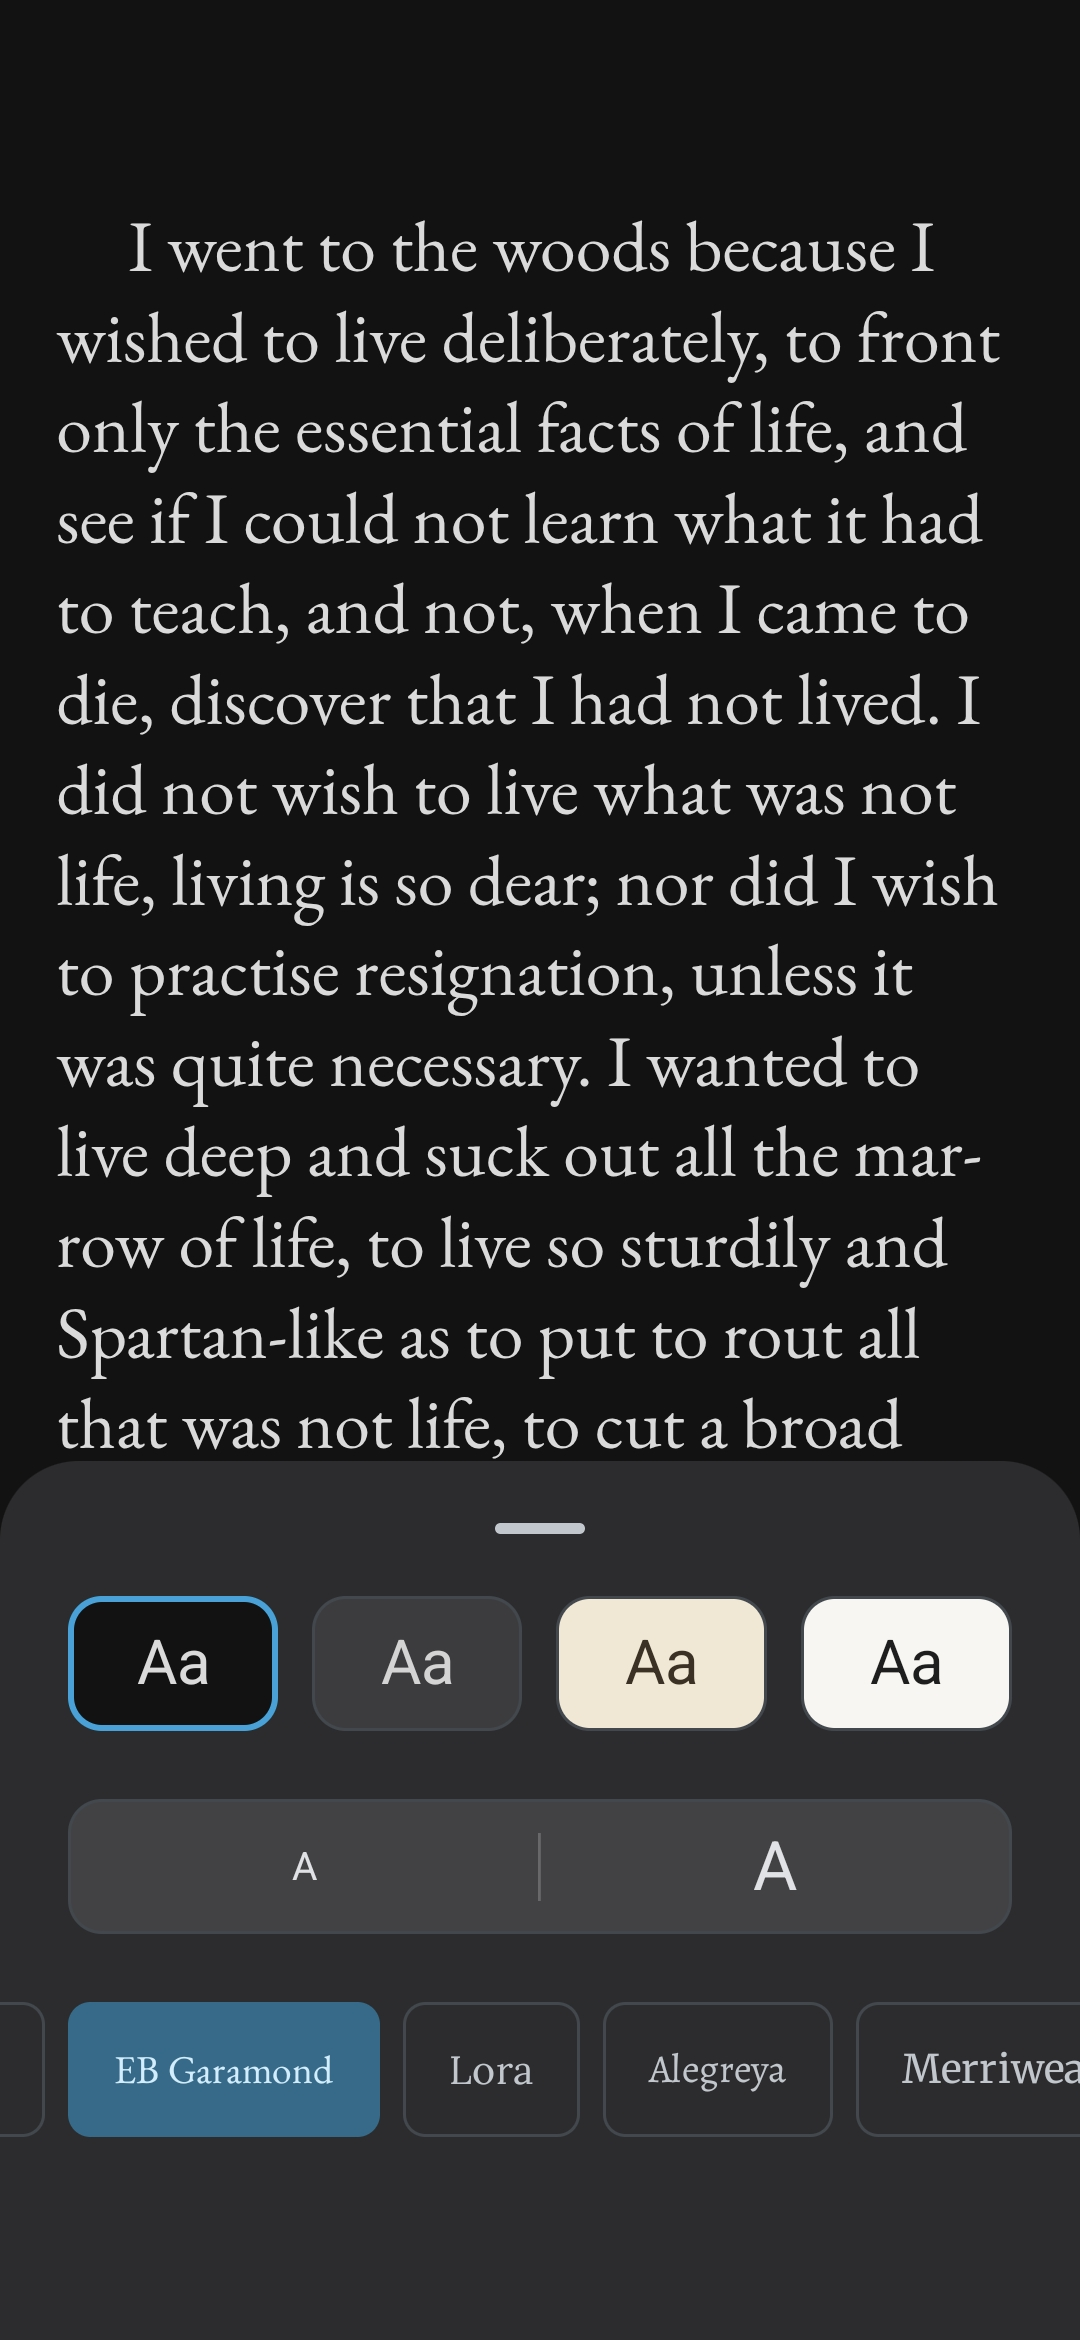
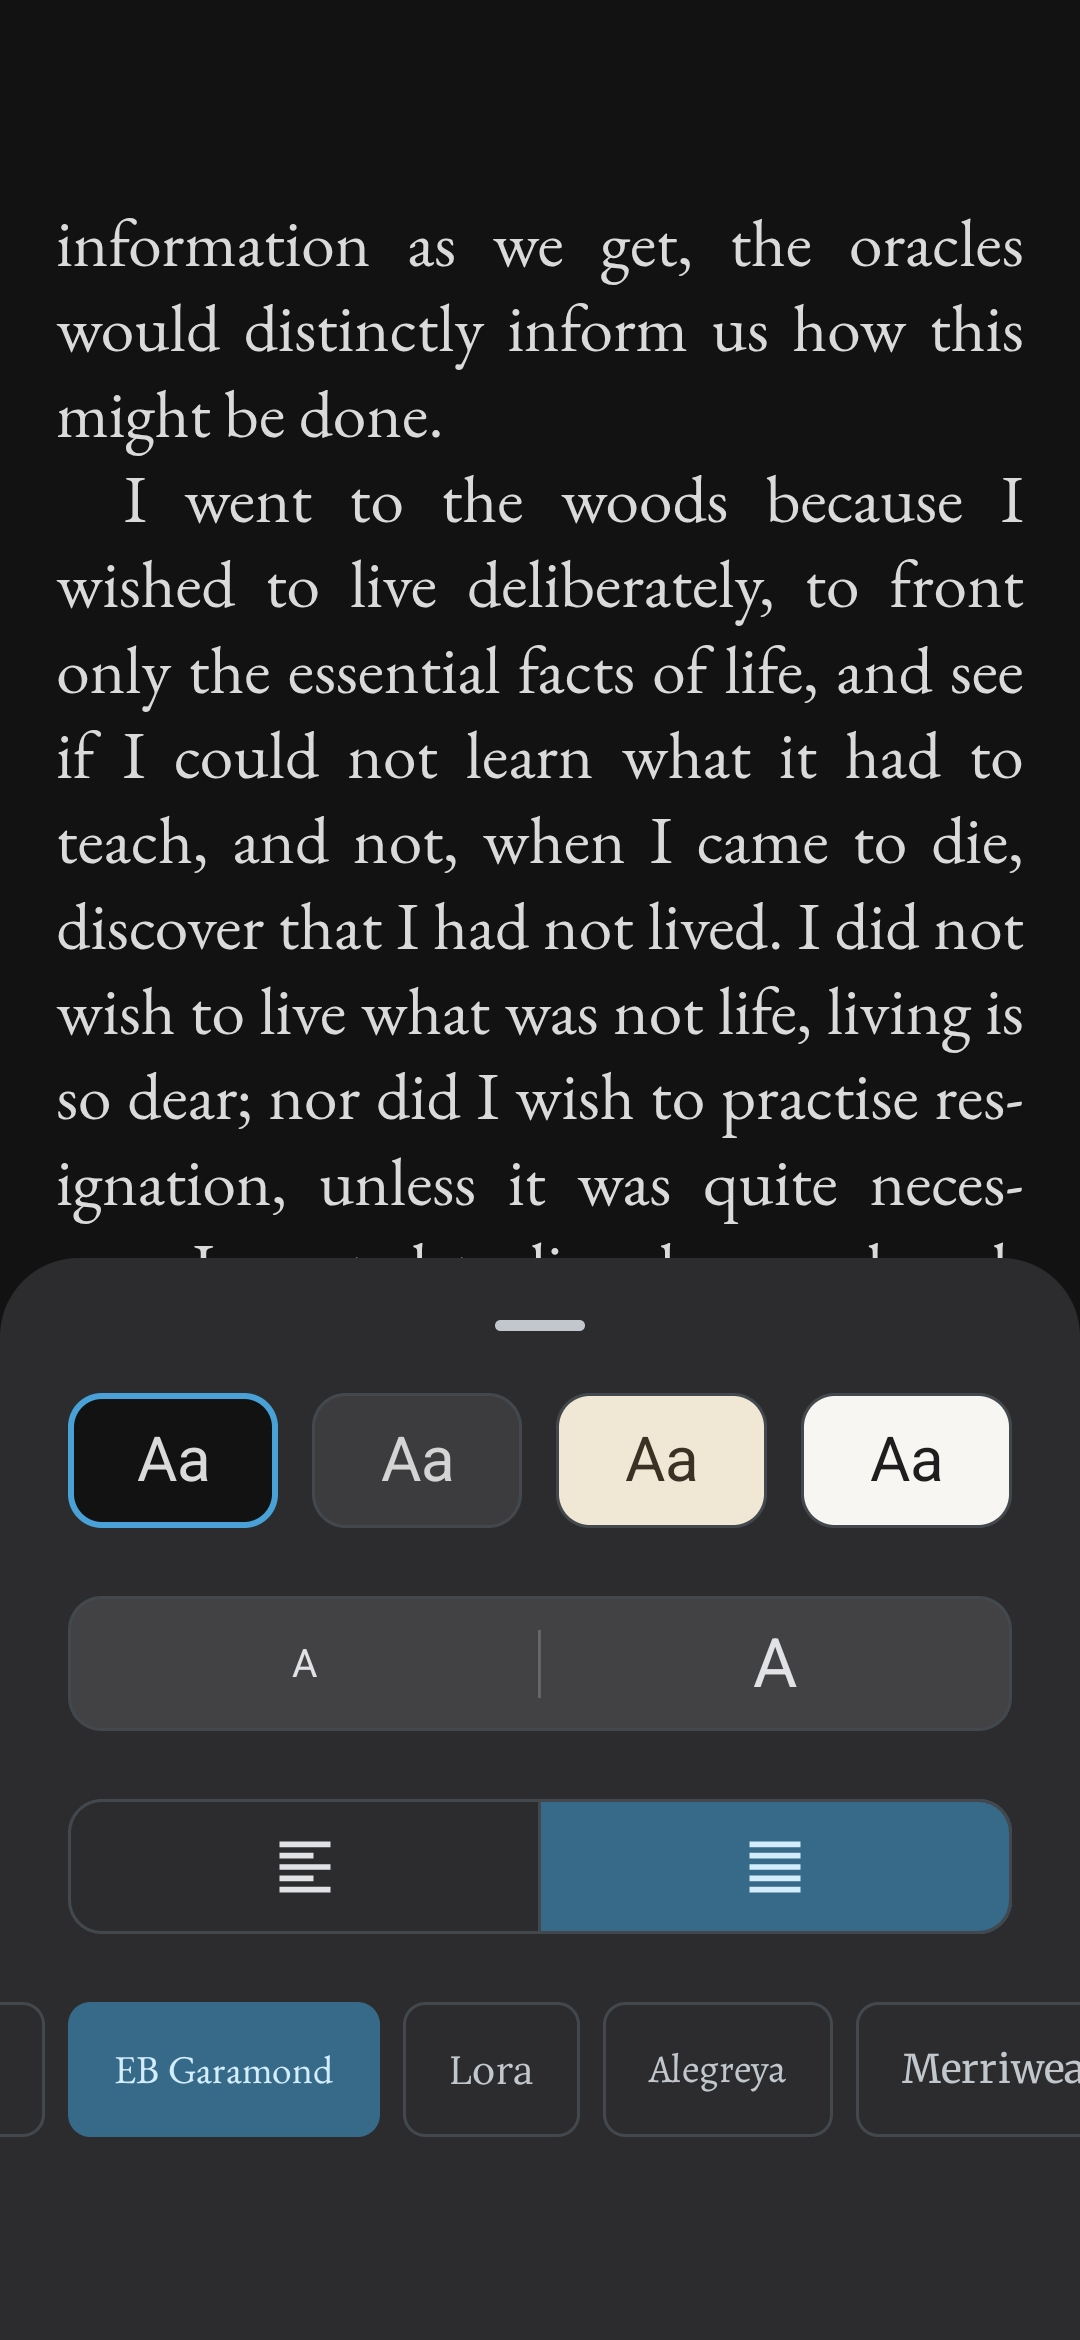
Switch the reader between left-aligned and justified text
A new row in the appearance sheet sets how the lines of every book are
aligned: left-aligned or justified, one icon each. It sits below the text
size, so the rows of the same width come first and the fonts, which scroll
sideways, come last. Justified is the default and hyphenates words, so the
spaces between them stay small on a phone's narrow page.

Readium aligns the text only with the book's own styles turned off. It then
also sizes paragraphs and headings on its own scale and aligns paragraphs a
book centers or right-aligns like all others.

The three reader screenshots in the README show the justified text and the
new row.

diff --git a/app/src/main/kotlin/io/github/mrtnha/librifin/ui/reader/AppearanceSheet.kt b/app/src/main/kotlin/io/github/mrtnha/librifin/ui/reader/AppearanceSheet.kt
@@ -30,7 +30,11 @@ import androidx.compose.foundation.shape.RoundedCornerShape
 import androidx.compose.material3.BottomSheetDefaults
 import androidx.compose.material3.ExperimentalMaterial3Api
 import androidx.compose.material3.FilterChip
+import androidx.compose.material3.Icon
 import androidx.compose.material3.MaterialTheme
+import androidx.compose.material3.SegmentedButton
+import androidx.compose.material3.SegmentedButtonDefaults
+import androidx.compose.material3.SingleChoiceSegmentedButtonRow
 import androidx.compose.material3.VerticalDivider
 import androidx.compose.material3.Surface
 import androidx.compose.material3.Text
@@ -45,6 +49,7 @@ import androidx.compose.ui.Modifier
 import androidx.compose.ui.draw.clip
 import androidx.compose.ui.graphics.Color
 import androidx.compose.ui.graphics.compositeOver
+import androidx.compose.ui.graphics.vector.ImageVector
 import androidx.compose.ui.layout.onSizeChanged
 import androidx.compose.ui.semantics.Role
 import androidx.compose.ui.semantics.clearAndSetSemantics
@@ -55,11 +60,13 @@ import androidx.compose.ui.unit.IntOffset
 import androidx.compose.ui.unit.TextUnit
 import androidx.compose.ui.unit.dp
 import androidx.compose.ui.unit.sp
+import io.github.mrtnha.librifin.ui.components.LibrifinIcons
 import kotlin.math.roundToInt
 
 /**
- * The sheet from the "Aa" button: theme, text size and font, one row each. It covers only the bottom of
- * the screen and doesn't dim the page, so every change shows on the page right away.
+ * The sheet from the "Aa" button: theme, text size, alignment and font, one row each. The rows of the same
+ * width come first; the fonts, which scroll sideways to the screen's edges, come last. It covers only the
+ * bottom of the screen and doesn't dim the page, so every change shows on the page right away.
  * Swiping it down closes it.
  */
 @OptIn(ExperimentalMaterial3Api::class)
@@ -71,6 +78,8 @@ fun AppearanceSheet(
     canIncreaseFontSize: Boolean,
     onDecreaseFontSize: () -> Unit,
     onIncreaseFontSize: () -> Unit,
+    alignment: ReaderAlignment,
+    onAlignmentSelected: (ReaderAlignment) -> Unit,
     font: ReaderFont,
     onFontSelected: (ReaderFont) -> Unit,
     onClose: () -> Unit,
@@ -117,6 +126,8 @@ fun AppearanceSheet(
                 onIncrease = onIncreaseFontSize,
                 modifier = Modifier.padding(horizontal = 24.dp),
             )
+            Spacer(Modifier.height(ROW_GAP))
+            AlignmentControl(alignment, onAlignmentSelected, Modifier.padding(horizontal = 24.dp))
             Spacer(Modifier.height(ROW_GAP))
             FontChips(font, onFontSelected)
         }
@@ -220,7 +231,10 @@ private fun RowScope.FontSizeHalf(letterSize: TextUnit, description: String, ena
 private val ROW_HEIGHT = 48.dp
 private val ROW_GAP = 24.dp
 
-/** The theme cards and the text size control share their corners and border, so they look like one family. */
+/**
+ * The theme cards, the text size control and the alignment control share their corners and border, so they
+ * look like one family.
+ */
 private val ROW_CORNER_RADIUS = 12.dp
 private val BORDER_WIDTH = 1.dp
 
@@ -246,6 +260,52 @@ private const val DIVIDER_ALPHA = 0.24f
 
 /** Material's opacity for disabled content: at the smallest or largest size, that half looks inactive. */
 private const val DISABLED_ALPHA = 0.38f
+
+/**
+ * Left-aligned or justified text, as one control split in two halves with an icon each. Like the font chips,
+ * the color alone shows the choice.
+ */
+@Composable
+private fun AlignmentControl(
+    selected: ReaderAlignment,
+    onSelect: (ReaderAlignment) -> Unit,
+    modifier: Modifier = Modifier,
+) {
+    val borderColor = MaterialTheme.colorScheme.outlineVariant
+    SingleChoiceSegmentedButtonRow(modifier.fillMaxWidth()) {
+        ReaderAlignment.entries.forEachIndexed { index, alignment ->
+            SegmentedButton(
+                selected = alignment == selected,
+                onClick = { onSelect(alignment) },
+                shape = SegmentedButtonDefaults.itemShape(
+                    index = index,
+                    count = ReaderAlignment.entries.size,
+                    baseShape = RoundedCornerShape(ROW_CORNER_RADIUS),
+                ),
+                modifier = Modifier.height(ROW_HEIGHT),
+                colors = SegmentedButtonDefaults.colors(
+                    activeBorderColor = borderColor,
+                    inactiveBorderColor = borderColor,
+                ),
+                // No checkmark, which Material shows here by default.
+                icon = {},
+                label = { Icon(alignment.icon, contentDescription = alignment.label) },
+            )
+        }
+    }
+}
+
+private val ReaderAlignment.icon: ImageVector
+    get() = when (this) {
+        ReaderAlignment.LEFT -> LibrifinIcons.FormatAlignLeft
+        ReaderAlignment.JUSTIFIED -> LibrifinIcons.FormatAlignJustify
+    }
+
+private val ReaderAlignment.label: String
+    get() = when (this) {
+        ReaderAlignment.LEFT -> "Left-aligned"
+        ReaderAlignment.JUSTIFIED -> "Justified"
+    }
 
 /**
  * The fonts, each name in its own font, in one row that scrolls sideways to the screen's edges.

diff --git a/app/src/main/kotlin/io/github/mrtnha/librifin/ui/reader/EpubView.kt b/app/src/main/kotlin/io/github/mrtnha/librifin/ui/reader/EpubView.kt
@@ -42,6 +42,7 @@ import org.readium.r2.navigator.input.InputListener
 import org.readium.r2.navigator.input.TapEvent
 import org.readium.r2.navigator.preferences.Color
 import org.readium.r2.navigator.preferences.FontFamily
+import org.readium.r2.navigator.preferences.TextAlign
 import org.readium.r2.navigator.preferences.Theme
 import org.readium.r2.navigator.util.DirectionalNavigationAdapter
 import org.readium.r2.shared.ExperimentalReadiumApi
@@ -77,8 +78,9 @@ fun EpubView(file: Path, initialLocator: String?, host: EpubViewHost, modifier: 
             LaunchedEffect(vm) { host.onPagesLoaded(vm.pages) }
             var navigatorNow by remember { mutableStateOf<EpubNavigatorFragment?>(null) }
 
-            // The first theme, size and font are set when the book opens; later ones change the page in place.
-            LaunchedEffect(host.theme, host.fontSize, host.font, navigatorNow) {
+            // The first theme, size, font and alignment are set when the book opens; later ones change the page
+            // in place.
+            LaunchedEffect(host.theme, host.fontSize, host.font, host.alignment, navigatorNow) {
                 navigatorNow?.submitPreferences(host.epubPreferences())
             }
 
@@ -144,7 +146,7 @@ fun EpubView(file: Path, initialLocator: String?, host: EpubViewHost, modifier: 
 
 /**
  * What [EpubView] shows and reports. The book is in the colors of [theme], with text at [fontSize] percent of
- * the book's own size, in [font].
+ * the book's own size, in [font], aligned as [alignment].
  * When [jumpToProgress] is set, it goes there and calls [onJumped]. [onReachedEnd] is called when
  * the last page of the book is shown. [onPagesLoaded] gets the book's pages once it's open.
  * Taps on the left and right edges and swipes turn pages; other taps on the page call [onCenterTap].
@@ -160,6 +162,7 @@ interface EpubViewHost {
     val theme: ReaderTheme
     val fontSize: Int
     val font: ReaderFont
+    val alignment: ReaderAlignment
     val jumpToProgress: Double?
     val searchedQuery: String?
     val showSearchResult: SearchResult?
@@ -219,6 +222,16 @@ private fun EpubViewHost.epubPreferences() = EpubPreferences(
     fontSize = fontSize / 100.0,
     // No font family: the book's own.
     fontFamily = font.takeIf { it != ReaderFont.ORIGINAL }?.let { FontFamily(it.label) },
+    // Readium aligns the text only with the book's own styles off. Then it also sizes paragraphs and
+    // headings itself, and aligns the paragraphs a book centers or right-aligns like all others.
+    publisherStyles = false,
+    textAlign = when (alignment) {
+        ReaderAlignment.LEFT -> TextAlign.START // Right-aligned in right-to-left books.
+        ReaderAlignment.JUSTIFIED -> TextAlign.JUSTIFY
+    },
+    // Justified lines on a phone's narrow page need hyphens, or the gaps between words grow wide.
+    // Left-aligned text keeps the book's own hyphenation.
+    hyphens = if (alignment == ReaderAlignment.JUSTIFIED) true else null,
 )
 
 /** Lets the book's pages use the fonts bundled with the app, under their [ReaderFont.label]s. */

diff --git a/app/src/main/kotlin/io/github/mrtnha/librifin/ui/reader/ReaderViewModel.kt b/app/src/main/kotlin/io/github/mrtnha/librifin/ui/reader/ReaderViewModel.kt
@@ -88,6 +88,12 @@ class ReaderViewModel(
     )
         private set
 
+    /** How the lines of the book's text are aligned, the same for all books and kept between app starts. */
+    override var alignment by mutableStateOf(
+        ReaderAlignment.entries.find { it.name == settings.read(KEY_ALIGNMENT) } ?: ReaderAlignment.JUSTIFIED,
+    )
+        private set
+
     /**
      * Set when the book was read further elsewhere (see [checkReadElsewhere]) or a page was picked with
      * the page slider: the renderer jumps there (0..1) and calls [onJumped].
@@ -103,7 +109,10 @@ class ReaderViewModel(
     var currentPage by mutableStateOf<Int?>(null)
         private set
 
-    /** The sheet at the bottom for theme, text size and font. The bars hide while it's open, so the page shows. */
+    /**
+     * The sheet at the bottom for theme, text size, alignment and font. The bars hide while it's open, so the
+     * page shows.
+     */
     var isAppearanceOpen by mutableStateOf(false)
         private set
 
@@ -335,6 +344,11 @@ class ReaderViewModel(
         settings.write(KEY_FONT, font.name)
     }
 
+    fun selectAlignment(selected: ReaderAlignment) {
+        alignment = selected
+        settings.write(KEY_ALIGNMENT, alignment.name)
+    }
+
     fun decreaseFontSize() = changeFontSize(fontSize - FONT_SIZE_STEP)
 
     fun increaseFontSize() = changeFontSize(fontSize + FONT_SIZE_STEP)
@@ -419,6 +433,7 @@ class ReaderViewModel(
         const val KEY_THEME = "reader_theme"
         const val KEY_FONT_SIZE = "reader_font_size"
         const val KEY_FONT = "reader_font"
+        const val KEY_ALIGNMENT = "reader_alignment"
 
         // Readium allows 10–500 %; beyond these limits text on a phone is too small to read,
         // or only a few words fit on a line.

diff --git a/app/src/main/kotlin/io/github/mrtnha/librifin/ui/components/Icons.kt b/app/src/main/kotlin/io/github/mrtnha/librifin/ui/components/Icons.kt
@@ -207,7 +207,7 @@ object LibrifinIcons {
         symbol("Sort", "M120-240v-80h240v80H120Zm0-200v-80h480v80H120Zm0-200v-80h720v80H120Z")
     }
 
-    /** "match_case" ("Aa"). Reader app bar: opens the appearance sheet (theme, text size, font). */
+    /** "match_case" ("Aa"). Reader app bar: opens the appearance sheet (theme, text size, alignment, font). */
     val MatchCase: ImageVector by lazy {
         symbol(
             "MatchCase",
@@ -215,6 +215,24 @@ object LibrifinIcons {
                 "q-51 0-81-27.5T554-342q0-44 34.5-72.5T677-443q23 0 45 4t38 11v-12q0-29-20.5-47T685-505q-23 0-42 9.5" +
                 "T610-468l-47-35q24-29 54.5-43t68.5-14q69 0 103 32.5t34 97.5v178h-63v-37h-4q-14 23-38 35t-53 12Z" +
                 "m12-54q35 0 59.5-24t24.5-56q-14-8-33.5-12.5T689-393q-32 0-50 14t-18 37q0 20 16 33t40 13Z",
+        )
+    }
+
+    /** "format_align_left". Appearance sheet: left-aligned text. */
+    val FormatAlignLeft: ImageVector by lazy {
+        symbol(
+            "FormatAlignLeft",
+            "M120-120v-80h720v80H120Zm0-160v-80h480v80H120Zm0-160v-80h720v80H120Zm0-160v-80h480v80H120" +
+                "Zm0-160v-80h720v80H120Z",
+        )
+    }
+
+    /** "format_align_justify". Appearance sheet: justified text. */
+    val FormatAlignJustify: ImageVector by lazy {
+        symbol(
+            "FormatAlignJustify",
+            "M120-120v-80h720v80H120Zm0-160v-80h720v80H120Zm0-160v-80h720v80H120Zm0-160v-80h720v80H120" +
+                "Zm0-160v-80h720v80H120Z",
         )
     }
 

diff --git a/app/src/main/kotlin/io/github/mrtnha/librifin/ui/reader/ReaderScreen.kt b/app/src/main/kotlin/io/github/mrtnha/librifin/ui/reader/ReaderScreen.kt
@@ -209,6 +209,8 @@ fun ReaderScreen(
                             canIncreaseFontSize = vm.canIncreaseFontSize,
                             onDecreaseFontSize = vm::decreaseFontSize,
                             onIncreaseFontSize = vm::increaseFontSize,
+                            alignment = vm.alignment,
+                            onAlignmentSelected = vm::selectAlignment,
                             font = vm.font,
                             onFontSelected = vm::selectFont,
                             onClose = vm::closeAppearance,

diff --git a/app/src/main/kotlin/io/github/mrtnha/librifin/ui/reader/ReaderAlignment.kt b/app/src/main/kotlin/io/github/mrtnha/librifin/ui/reader/ReaderAlignment.kt
@@ -1,0 +1,10 @@
+package io.github.mrtnha.librifin.ui.reader
+
+/** How the lines of the book's text are aligned, in the order the appearance sheet shows them. */
+enum class ReaderAlignment {
+    /** A straight left edge and a ragged right one, with even spaces between words. Mirrored in right-to-left books. */
+    LEFT,
+
+    /** Both edges straight, like a printed book. Words are hyphenated, so the spaces between them stay small. */
+    JUSTIFIED,
+}

diff --git a/README.md b/README.md
@@ -30,6 +30,7 @@ I use Jellyfin as the one place for all of my media. For the books in my Jellyfi
 - Four reading themes (dark, gray, sepia and light).
 - Adjustable text size.
 - Ten reading fonts to choose from in addition to the book's own.
+- Justified (with hyphenation) or left-aligned text.
 - Your reading position is saved on the device and your progress is sent to Jellyfin. Once you've read 95% of a book or reached its last page, it counts as finished and is marked as played in Jellyfin.
 
 ## Screenshots
@@ -40,7 +41,7 @@ I use Jellyfin as the one place for all of my media. For the books in my Jellyfi
 |:---:|:---:|:---:|
 | <img src="docs/screenshots/welcome.jpg" width="200" alt="Welcome screen"> | <img src="docs/screenshots/library.jpg" width="200" alt="Library screen"> | <img src="docs/screenshots/search-book.jpg" width="200" alt="Search results inside a book, each with its chapter and page"> |
 | **Reading** | **Reading with bars** | **Reader appearance** |
-| <img src="docs/screenshots/reader.jpg" width="200" alt="Reading full screen"> | <img src="docs/screenshots/reader-bars.jpg" width="200" alt="Reading with the app bar and page slider shown"> | <img src="docs/screenshots/reader-appearance.jpg" width="200" alt="Reading with the appearance sheet: theme, text size and font"> |
+| <img src="docs/screenshots/reader.jpg" width="200" alt="Reading full screen"> | <img src="docs/screenshots/reader-bars.jpg" width="200" alt="Reading with the app bar and page slider shown"> | <img src="docs/screenshots/reader-appearance.jpg" width="200" alt="Reading with the appearance sheet: theme, text size, alignment and font"> |
 
 </div>
 
